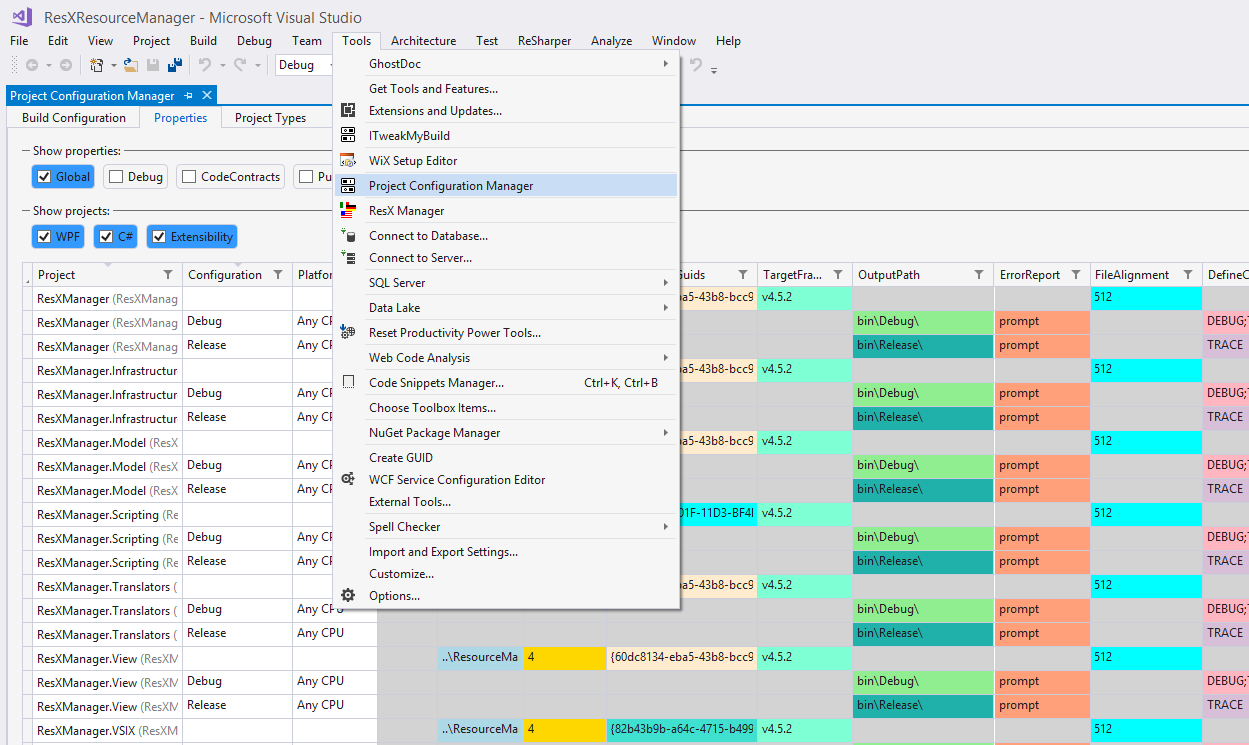
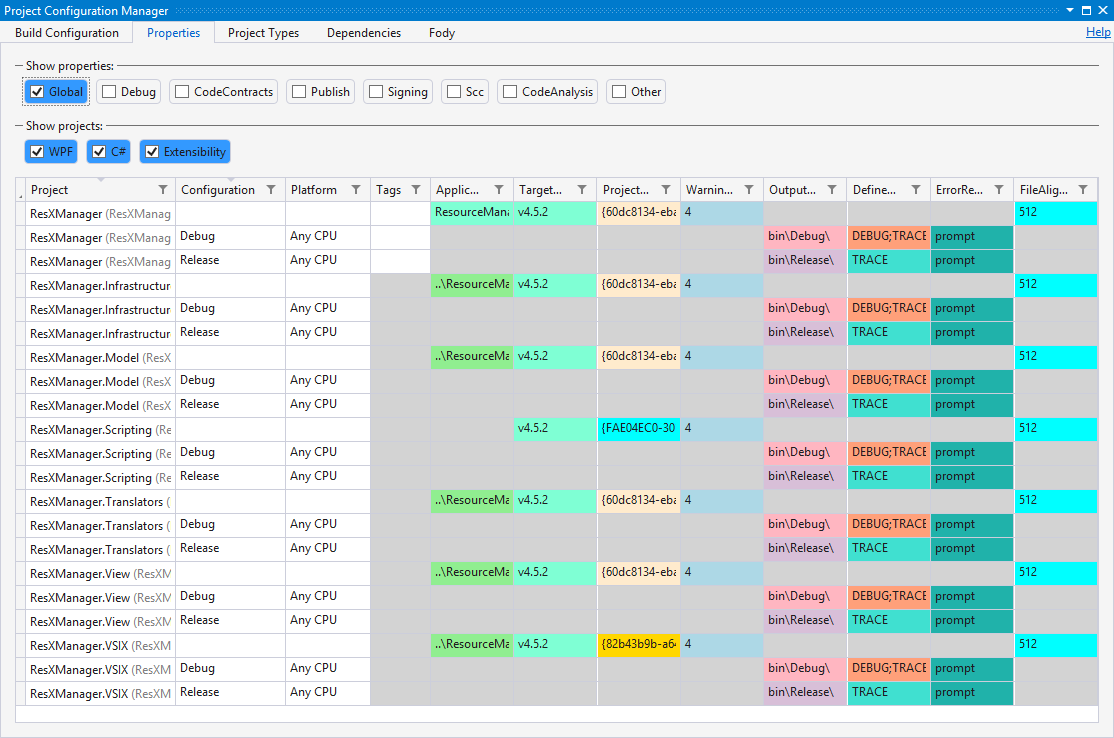
Extend README.md

diff --git a/README.md b/README.md
@@ -7,13 +7,15 @@ Initialize new projects by simply copy/paste defaults from other projects.
 Install the extension from the [Visual Studio Marketplace](https://marketplace.visualstudio.com/items?itemName=TomEnglert.ProjectConfigurationManager).
 The latest build is also available at the [Open VsixGallery](http://vsixgallery.com/extension/e31595c9-3e0c-4f5c-b35c-dd8d61e364d1/)
 
-![Project Properties](Assets/ProjectProperties.png)
+![Project Properties](Assets/SolutionToolsMenu.png)
 
 ![Build Configuration](Assets/BuildConfiguration.png)
 
 ![Build Configuration](Assets/ProjectTypes.png)
 
 ![Build Configuration](Assets/Dependencies.png)
+
+![Build Configuration](Assets/Fody.png)
 
 Powerd by&nbsp;&nbsp;&nbsp;<a href="http://www.jetbrains.com/resharper/"><img src="http://www.tom-englert.de/Images/icon_ReSharper.png" alt="ReSharper" width="64" height="64" /></a> &nbsp;&nbsp;&nbsp; <a href="http://research.microsoft.com/en-us/projects/contracts/"><img src="http://www.tom-englert.de/Images/codecontracts_sm.png" alt="CodeContracts" width="90" height="56" /></a>&nbsp;</p>
 <p>Support this Project: <a href="https://www.paypal.com/cgi-bin/webscr?cmd=_s-xclick&hosted_button_id=BWDEHKZQF7KC4"><img style="border: none; margin-bottom: -6px;" title="Donate" src="https://www.paypalobjects.com/en_US/i/btn/btn_donate_SM.gif" alt="Donate" /></a></p>
